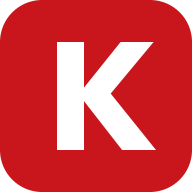
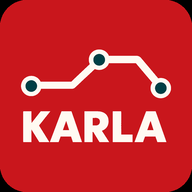
Add new image for Karlsruhe public transport departures

diff --git a/index.html b/index.html
@@ -6,19 +6,58 @@
          phone and in a standalone window; without it env(safe-area-inset-*) is always zero. -->
     <meta name="viewport" content="width=device-width, initial-scale=1.0, viewport-fit=cover" />
     <meta name="theme-color" content="#c9161c" />
-    <meta name="description" content="KARLA – Karlsruhes Linien &amp; Abfahrten. Wie steht es gerade im Karlsruher Nahverkehrsnetz?" />
-    <meta property="og:title" content="KARLA" />
-    <meta property="og:description" content="Karlsruhes Linien &amp; Abfahrten" />
-    <meta property="og:image" content="./og.png" />
+    <meta
+      name="description"
+      content="KARLA – Karlsruher Abfahrten &amp; Linien. Live im Karlsruher Nahverkehr."
+    />
+    <link rel="canonical" href="https://maxliesegang.github.io/karla/" />
+    <meta property="og:type" content="website" />
+    <meta property="og:locale" content="de_DE" />
+    <meta property="og:site_name" content="KARLA" />
+    <meta property="og:title" content="KARLA – Karlsruher Abfahrten &amp; Linien" />
+    <meta
+      property="og:description"
+      content="Karlsruher Abfahrten &amp; Linien"
+    />
+    <meta property="og:url" content="https://maxliesegang.github.io/karla/" />
+    <meta
+      property="og:image"
+      content="https://maxliesegang.github.io/karla/og-karlsruher-linien-abfahrten.png"
+    />
+    <meta
+      property="og:image:secure_url"
+      content="https://maxliesegang.github.io/karla/og-karlsruher-linien-abfahrten.png"
+    />
+    <meta property="og:image:type" content="image/png" />
+    <meta property="og:image:width" content="1200" />
+    <meta property="og:image:height" content="630" />
+    <meta
+      property="og:image:alt"
+      content="KARLA-Logo mit stilisiertem Liniennetz"
+    />
+    <meta name="twitter:card" content="summary_large_image" />
+    <meta name="twitter:title" content="KARLA – Karlsruher Abfahrten &amp; Linien" />
+    <meta
+      name="twitter:description"
+      content="Karlsruher Abfahrten &amp; Linien"
+    />
+    <meta
+      name="twitter:image"
+      content="https://maxliesegang.github.io/karla/og-karlsruher-linien-abfahrten.png"
+    />
+    <meta
+      name="twitter:image:alt"
+      content="KARLA-Logo mit stilisiertem Liniennetz"
+    />
     <!-- Installed, the app is the bar's own colour up to the status bar, and its name is the mark. -->
     <meta name="mobile-web-app-capable" content="yes" />
     <meta name="apple-mobile-web-app-capable" content="yes" />
     <meta name="apple-mobile-web-app-status-bar-style" content="black-translucent" />
     <meta name="apple-mobile-web-app-title" content="KARLA" />
     <link rel="manifest" href="./manifest.webmanifest" />
-    <link rel="icon" href="./favicon.svg" />
+    <link rel="icon" href="./favicon.png" sizes="64x64" type="image/png" />
     <link rel="apple-touch-icon" href="./apple-touch-icon.png" />
-    <title>KARLA – Karlsruhes Linien &amp; Abfahrten</title>
+    <title>KARLA – Karlsruher Abfahrten &amp; Linien</title>
   </head>
   <body>
     <div id="root"></div>

diff --git a/public/sw.js b/public/sw.js
@@ -11,16 +11,15 @@
  * Bump APP_SHELL_CACHE_NAME whenever the stable precache list or caching behaviour changes.
  */
 const APP_CACHE_PREFIX = "karla-app-shell-";
-const APP_SHELL_CACHE_NAME = `${APP_CACHE_PREFIX}v2`;
+const APP_SHELL_CACHE_NAME = `${APP_CACHE_PREFIX}v5`;
 const BUILD_MANIFEST_URL = "./vite-manifest.json";
 const STATIC_SHELL_URLS = [
   "./",
   "./index.html",
   "./manifest.webmanifest",
-  "./favicon.svg",
+  "./favicon.png",
   "./icon-192.png",
   "./icon-512.png",
-  "./icon-maskable.svg",
   "./icon-maskable-512.png",
   "./apple-touch-icon.png",
 ];

diff --git a/src/index.css b/src/index.css
@@ -110,15 +110,21 @@ h2 {
   font-size: 13px;
 }
 .loading-mark {
-  min-width: 64px;
-  height: 46px;
-  display: grid;
-  place-items: center;
+  min-height: 46px;
+  display: flex;
+  align-items: center;
+  gap: 8px;
+  padding: 8px 14px;
   border-radius: 10px;
   background: var(--kvv-red);
   color: #fff;
   font-size: 14px;
   font-weight: 900;
+}
+.loading-mark img {
+  width: 28px;
+  height: 28px;
+  border-radius: 6px;
 }
 
 /* ---------- Shell ---------- */

diff --git a/src/components/AppHeader.tsx b/src/components/AppHeader.tsx
@@ -39,7 +39,7 @@ export function AppHeader({
     <header className="app-header">
       <div className="app-header-brand">
         {isStationBoardMode ? (
-          <span className="brand">
+          <span className="brand" aria-label="KARLA">
             <span className="brand-mark">KARLA</span>
           </span>
         ) : (

diff --git a/src/App.tsx b/src/App.tsx
@@ -150,6 +150,7 @@ export default function App() {
     return (
       <main className="loading" aria-live="polite">
         <span className="loading-mark" aria-hidden="true">
+          <img src="./favicon.png" alt="" />
           KARLA
         </span>
         <span>

diff --git a/README.md b/README.md
@@ -1,6 +1,6 @@
 # KARLA
 
-**KAR**lsruhes **L**inien & **A**bfahrten — a static React site showing the current state of the
+Karlsruher Abfahrten & Linien — a static React site showing the current state of the
 Karlsruhe public transport network: the stops served in the Zentrum, a line index, and stop views
 with live departures from the KVV realtime feed. It is not a journey planner: no routing, no
 ticketing, no accounts.
